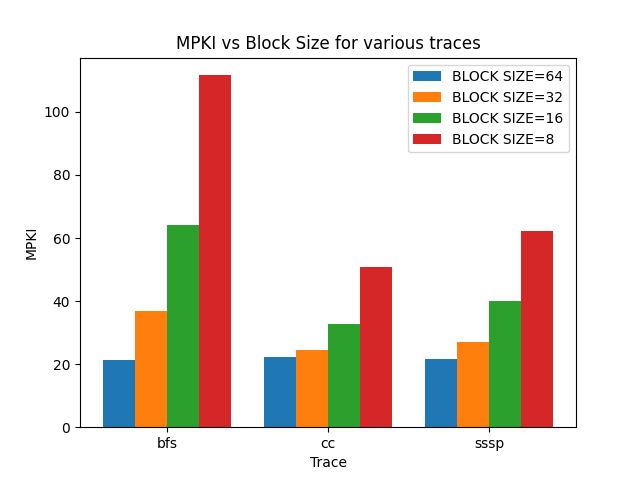
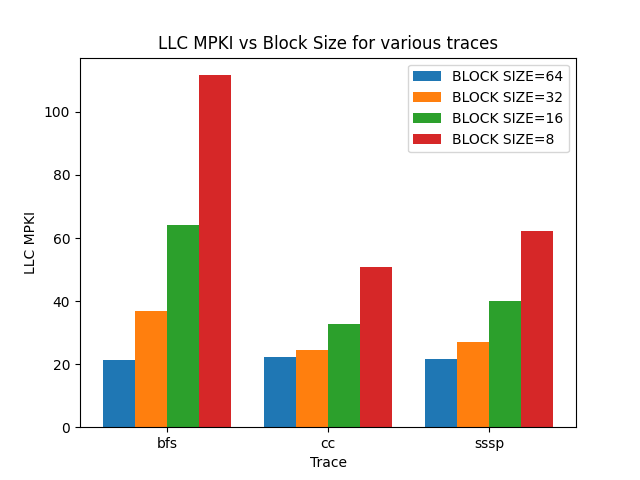
Fixed graph labels

Changed region(s): [[0.25, 0.0625, 0.7812, 0.125], [0.0312, 0.4375, 0.0625, 0.5625]]

diff --git a/data/generate_graph.py b/data/generate_graph.py
@@ -44,9 +44,9 @@ def plot_llc_size():
     for i in range(len(llcsizes)-1):
         plt.bar(x_axis-0.3+0.2*i, mpkis[:,i], 0.2, label=f"LLC SIZE = {llc_sizes[i]}")
     plt.xticks(x_axis,traces)
-    plt.ylabel("MPKI")
+    plt.ylabel("LLC MPKI")
     plt.xlabel("Trace")
-    plt.title("MPKI vs LLC SIZE (MB) for various trace")
+    plt.title("LLC MPKI vs LLC SIZE (MB) for various trace")
     plt.legend()
     plt.savefig("figures/llc_sizes_mpki.png")
     plt.show()
@@ -95,9 +95,9 @@ def plot_l2_size():
     for i in range(len(l2sizes)-1):
         plt.bar(x_axis-0.3+0.2*i, mpkis[:,i], 0.2, label=f"L2 SIZE = {l2_sizes[i]}")
     plt.xticks(x_axis,traces)
-    plt.ylabel("MPKI")
+    plt.ylabel("LLC MPKI")
     plt.xlabel("Trace")
-    plt.title("MPKI vs L2 SIZE (MB) for various trace")
+    plt.title("LLC MPKI vs L2 SIZE (MB) for various trace")
     plt.legend()
     plt.savefig("figures/l2_sizes_mpki.png")
     plt.show()
@@ -147,9 +147,9 @@ def plot_repl(inclusivity):
     for i in range(len(repls)):
         plt.bar(x_axis-0.35+0.1*i, np.flip(np.transpose(np.transpose(mpkis)[mpkis[1, :].argsort()]))[:,i], 0.1, label=np.flip(repls[mpkis[1, :].argsort()])[i])
     plt.xticks(x_axis,traces)
-    plt.ylabel("MPKI")
+    plt.ylabel("LLC MPKI")
     plt.xlabel("Trace")
-    plt.title(f"MPKI vs Replacement Policy for various traces using {inclusivity} Cache Hierarchy")
+    plt.title(f"LLC MPKI vs Replacement Policy for various traces using {inclusivity} Cache Hierarchy")
     plt.legend()
     plt.savefig(f"figures/{inclusivity.lower()}_mpki.png")
     plt.show()
@@ -197,9 +197,9 @@ def plot_incl():
     for i in range(len(incs)):
         plt.bar(x_axis-0.25+0.25*i, mpkis[:,i], 0.25, label=incs[i])
     plt.xticks(x_axis,traces)
-    plt.ylabel("MPKI")
+    plt.ylabel("LLC MPKI")
     plt.xlabel("Trace")
-    plt.title("MPKI vs Cache Inclusion Policy for various traces")
+    plt.title("LLC MPKI vs Cache Inclusion Policy for various traces")
     plt.legend()
     plt.savefig("figures/inclusivity_mpki.png")
     plt.show()
@@ -248,9 +248,9 @@ def plot_block():
     for i in range(len(blocksizes)):
         plt.bar(x_axis-0.3+0.2*i, mpkis[:,i], 0.2, label=f"BLOCK SIZE={blocksizes[i]}")
     plt.xticks(x_axis,traces)
-    plt.ylabel("MPKI")
+    plt.ylabel("LLC MPKI")
     plt.xlabel("Trace")
-    plt.title("MPKI vs Block Size for various traces")
+    plt.title("LLC MPKI vs Block Size for various traces")
     plt.legend()
     plt.savefig("figures/block_size_mpki.png")
     plt.show()
@@ -303,17 +303,19 @@ def plot_best_result():
     plt.bar(x_axis-0.15, mpkis[:,0], 0.3, label=f"BASELINE")
     plt.bar(x_axis+0.15, mpkis[:,1], 0.3, label=f"BEST")
     plt.xticks(x_axis,traces)
-    plt.ylabel("MPKI")
+    plt.ylabel("LLC MPKI")
     plt.xlabel("Trace")
-    plt.title("Best cache hierarchy for various traces (MPKI)")
+    plt.title("Best cache hierarchy for various traces (LLC MPKI)")
     plt.legend()
     plt.savefig("figures/best_mpki.png")
     plt.show()
     plt.close()
 
-# plot_repl("Inclusive")
-# plot_repl("NonInclusive")
-# plot_repl("Exclusive")
-# plot_l2_size()
-# plot_llc_size()
 plot_best_result()
+plot_block()
+plot_l2_size()
+plot_llc_size()
+plot_incl()
+plot_repl("Inclusive")
+plot_repl("NonInclusive")
+plot_repl("Exclusive")

diff --git a/README.md b/README.md
@@ -16,5 +16,10 @@ Key Points:
 * Tested 0 size L2C and 0 size LLC caches by completely bypassing them
 * Replacement policies tested: lru, random, lfu, fifo, mru, drrip, srrip, ship
 * Inclusive, Exclusive and Noninclusive caches implemented and tested against all replacement policies
-  
+
+Best Results:
+* **BFS:** Non Inclusive, LLC Size = 0, L2C Size = 512 KB
+* **CC:** Non Inclusive, LLC Size = 8 MB, L2C Size = 0, LLC Replacement Policy = drrip
+* **SSSP:** Non Inclusive, LLC Size = 8 MB, L2C Size = 0, LLC Replacement Policy = lfu
+
 [results](results.md)

diff --git a/results.md b/results.md
@@ -13,3 +13,5 @@ Results:
 ![Exclusive Cache Hierarchy - Replacement Policy mpki comparison](data/figures/exclusive_mpki.png)
 ![Cache Inclusion Policy - Speedup comparison](data/figures/inclusivity_speedup.png)
 ![Cache Inclusion Policy - MPKI comparison](data/figures/inclusivity_mpki.png)
+![Best Cache Hierarchy for each trace - Speedup](data/figures/best_speedup.png)
+![Best Cache Hierarchy for each trace - MPKI](data/figures/best_mpki.png)
